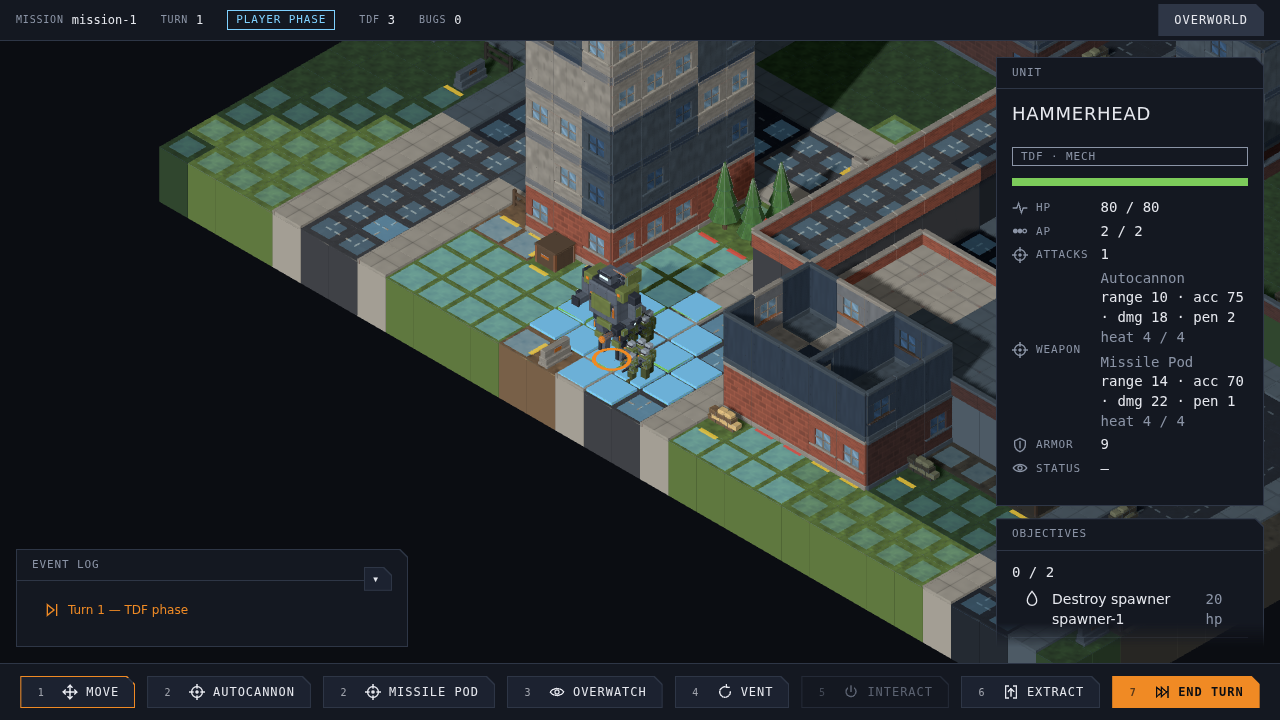
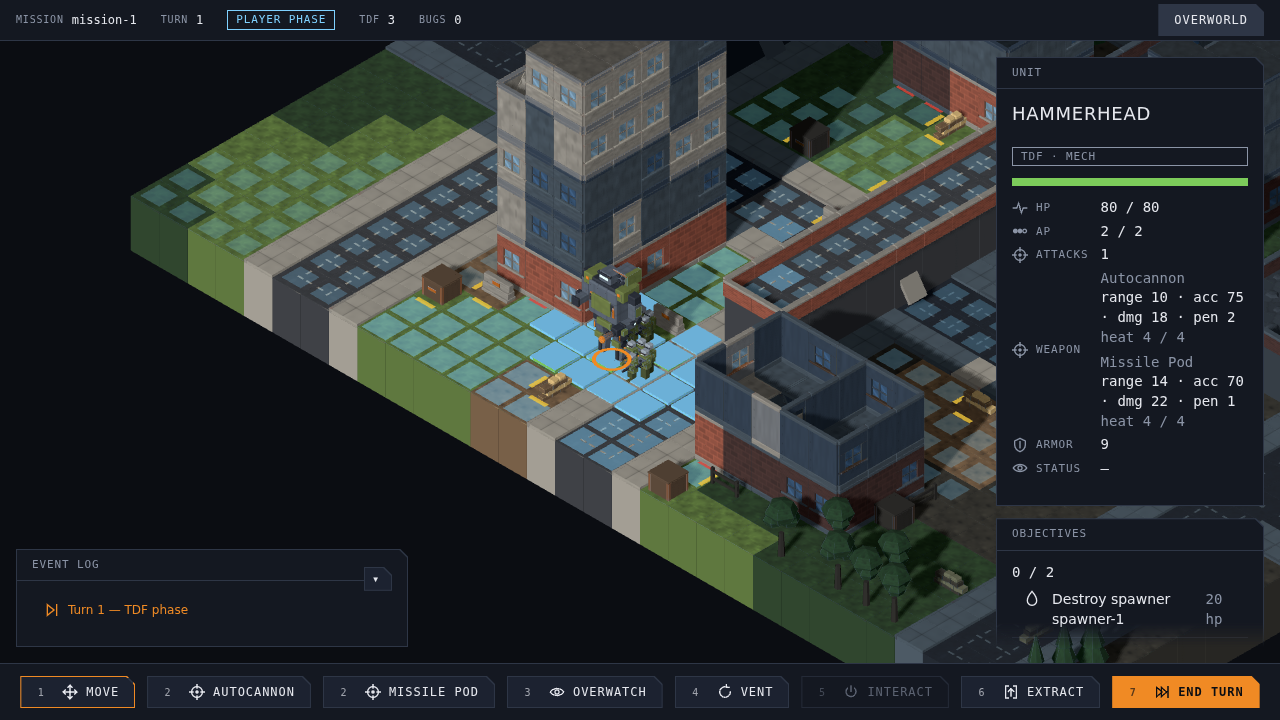
fix(graphics): stairs face their connector and the plank retires; brick flank measured, not a placement bug (#766) (#775)
* fix(graphics): stairs face their connector, and the plank retires (#766)

The stairs were never artless. A `stairs` surface already resolves to
`building.stairs` through the tile path like any other surface — but a
surface slab is unturned, so every staircase climbed along +Z whichever
way its connector went, and the `buildConnectors` plank was never retired,
so a tilted slab stayed drawn through the model. That is the "floating,
tilted slab" of #748; the model was there underneath, facing the wrong way.

`fitSurface` now turns a stairs tile toward its connector's upper end,
with the quarter turn derived from what `placementMatrix` does with turns:
0 south, 1 west, 2 north, 3 east. The model is pivoted at its base, so it
stands on the tile top rather than half a slab below it. The plank is
registered as a placeholder and retired when the models land; it also
leaves the connector vision map, or setVision would switch it back on.
Ramps and ladders have no art and keep their planks.

Tests: all four directions; pivot on the tile top; a connector-less stairs
tile stays unturned rather than vanishing; the plank retiring while the
ramp's survives; vision not resurrecting a retired plank. Sabotage-checked
both ways.

Claude-Session: https://claude.ai/code/session_015f1a8gF7xjnWbr92ru2yxX

* docs(design): the #766 renders — stairs facing their connector, plank gone

Three frames on this branch's final code. The unpeeled ?models=1 preview
[…]

diff --git a/src/graphics/service/map-model-resolver.ts b/src/graphics/service/map-model-resolver.ts
@@ -126,6 +126,44 @@ export function mapModelIds(
 }
 
 // ===========================================
+// Stairs
+// ===========================================
+
+/**
+ * Quarter turns that point a stairs tile's model up its connector (#766).
+ *
+ * A `stairs` surface already resolves to `building.stairs` like any other
+ * surface, but a surface slab is unturned, so every staircase climbed
+ * along +Z whichever way its connector actually went — the "tilted slab"
+ * of #748, with the placeholder plank still drawn through it. The model
+ * is authored with its steps rising along +Z from a base pivot, so it
+ * turns to face the connector's upper end.
+ *
+ * `placementMatrix` rotates by `-turns × π/2` about Y, so +Z maps to
+ * `(sin θ, cos θ)` in (x, z): turns 0 → south (+z), 1 → west (−x),
+ * 2 → north (−z), 3 → east (+x). A tile with no stairs connector of its
+ * own keeps 0, so a stray `stairs` surface still draws something.
+ */
+function stairsTurns(tile: Tile, map: TacticalMap): Rotation {
+  const up = map.connectors.find(
+    (c) =>
+      c.kind === "stairs" &&
+      c.from.x === tile.x &&
+      c.from.y === tile.y &&
+      c.from.z === tile.z,
+  );
+  if (up === undefined) {
+    return 0;
+  }
+  const dx = up.to.x - up.from.x;
+  const dz = up.to.z - up.from.z;
+  if (dz > 0) return 0;
+  if (dx < 0) return 1;
+  if (dz < 0) return 2;
+  return 3;
+}
+
+// ===========================================
 // Tiles
 // ===========================================
 
@@ -144,17 +182,21 @@ function resolveTiles(
 ): readonly ModelPlacement[] {
   const placements: ModelPlacement[] = [];
   for (const tile of map.tiles) {
-    const fitted = fitSurface(tile, index);
+    const fitted = fitSurface(tile, index, map);
     if (fitted === undefined) {
       continue;
     }
     const drop = tile.surface === SurfaceIds.WATER ? WATER_RECESS : 0;
+    // A slab is pivoted at its centre and sits half a thickness below the
+    // top; the stairs model is pivoted at its base and stands on it (#766).
+    const lift =
+      tile.surface === SurfaceIds.STAIRS ? 0 : GROUND_SLAB_THICKNESS / 2;
     placements.push({
       modelId: fitted.modelId,
       level: tile.y,
       position: {
         x: tile.x + 0.5,
-        y: tileTop(tile.y) - GROUND_SLAB_THICKNESS / 2 - drop,
+        y: tileTop(tile.y) - lift - drop,
         z: tile.z + 0.5,
       },
       turns: fitted.turns,
@@ -172,6 +214,7 @@ function resolveTiles(
 function fitSurface(
   tile: Tile,
   index: TileIndex,
+  map: TacticalMap,
 ): { modelId: ModelAssetId; turns: Rotation } | undefined {
   if (tile.surface === SurfaceIds.ROAD) {
     return fitJunction(tile, index, ROAD_VARIANTS.straight, ROAD_VARIANTS);
@@ -186,7 +229,13 @@ function fitSurface(
     });
   }
   const modelId = surfaceModel(tile.surface);
-  return modelId === undefined ? undefined : { modelId, turns: 0 };
+  if (modelId === undefined) {
+    return undefined;
+  }
+  return {
+    modelId,
+    turns: tile.surface === SurfaceIds.STAIRS ? stairsTurns(tile, map) : 0,
+  };
 }
 
 /**

diff --git a/src/graphics/view/tactical-map-view.ts b/src/graphics/view/tactical-map-view.ts
@@ -365,11 +365,10 @@ export class TacticalMapView implements Disposable, TilePicker {
    *          └─► placeholder boxes for that category hidden
    * ```
    *
-   * Hooks and connectors keep their placeholder geometry: they are
-   * diagnostic markers and ramps and ladders have no registered model.
-   * Safe to call once; a second call is a no-op. `ModelLoader` never
-   * rejects for a registered id, so a failed fetch shows that model's
-   * placeholder rather than losing the map.
+   * Hooks keep their placeholder geometry, and so do ramps and ladders,
+   * which have no registered art; a stairs plank retires once the stairs
+   * tile's model is up (#766). A model that fails to load leaves its placeholder rather than
+   * losing the map.
    */
   async loadModels(models: ModelLoader): Promise<void> {
     if (this.modelled) {
@@ -386,10 +385,12 @@ export class TacticalMapView implements Disposable, TilePicker {
     for (const [label, list] of categories) {
       await this.instanceCategory(label, list, models);
     }
-    // Building slabs, walls and props are replaced one for one. Ground
-    // pillars stay: they are the earth beneath the surface slab, not a
-    // stand-in for it.
-    for (const label of [TILES_SLAB, "walls", "props"]) {
+    // Building slabs, walls and props are replaced one for one, and the
+    // stairs plank retires because the stairs tile's own model now draws
+    // the staircase (#766). Ground pillars stay: they are the earth
+    // beneath the surface slab, not a stand-in for it. Ramps and ladders
+    // stay too, having no art.
+    for (const label of [TILES_SLAB, "walls", "props", "connectors"]) {
       this.retirePlaceholders(label);
     }
   }
@@ -478,6 +479,13 @@ export class TacticalMapView implements Disposable, TilePicker {
   private retirePlaceholders(label: string): void {
     for (const mesh of this.placeholders.get(label) ?? []) {
       mesh.visible = false;
+      // A retired stairs plank must also leave the vision map, or the
+      // next setVision would switch it back on (#766).
+      for (const tracked of this.connectorTiles.keys()) {
+        if (tracked === mesh) {
+          this.connectorTiles.delete(tracked);
+        }
+      }
     }
   }
 
@@ -781,6 +789,15 @@ export class TacticalMapView implements Disposable, TilePicker {
       this.connectorTiles.set(mesh, tracked);
       this.applyVisionToConnector(tracked);
       this.groupFor(connector.to.y).add(mesh);
+      if (connector.kind === "stairs") {
+        // A placeholder until the stairs tile's model is up (#766).
+        const kept = this.placeholders.get("connectors");
+        if (kept === undefined) {
+          this.placeholders.set("connectors", [mesh]);
+        } else {
+          kept.push(mesh);
+        }
+      }
     }
   }
 

diff --git a/src/graphics/view/tactical-map-view.test.ts b/src/graphics/view/tactical-map-view.test.ts
@@ -651,3 +651,48 @@ describe("overlapping hook markers", () => {
     expect(names).toContain("hooks:hook:extraction:0");
   });
 });
+
+// ===========================================
+// Stairs get their model (#766)
+// ===========================================
+
+describe("TacticalMapView stairs", () => {
+  it("replaces the stairs plank with the stairs model and keeps the ramp's", async () => {
+    const b = fixture();
+    b.tile({ x: 0, y: 0, z: 0 }, SurfaceIds.STAIRS);
+    b.tile({ x: 1, y: 1, z: 0 }, SurfaceIds.ROCK);
+    b.connector("stairs", { x: 0, y: 0, z: 0 }, { x: 1, y: 1, z: 0 });
+    const map = b.build();
+    const stairs = map.connectors.find((c) => c.kind === "stairs");
+    const ramp = map.connectors.find((c) => c.kind === "ramp");
+    if (!stairs || !ramp) throw new Error("fixture needs a stairs and a ramp");
+    const view = new TacticalMapView(map);
+    const plankOf = (id: string) => {
+      let hit: Mesh | undefined;
+      view.root.traverse((o) => {
+        if (o instanceof Mesh && o.name === id) hit = o;
+      });
+      return hit;
+    };
+    // Before the models: both connectors are placeholder planks.
+    expect(plankOf(stairs.id)?.visible).toBe(true);
+    expect(plankOf(ramp.id)?.visible).toBe(true);
+
+    await view.loadModels(new FakeModelLoader());
+
+    // The stairs plank retires: the stairs tile's own model draws the
+    // staircase now, through the tile path like any other surface...
+    expect(plankOf(stairs.id)?.visible).toBe(false);
+    expect(
+      allInstanced(view).some((m) => m.name.includes("building.stairs")),
+    ).toBe(true);
+    // ...and the ramp, which has no art, keeps its plank.
+    expect(plankOf(ramp.id)?.visible).toBe(true);
+
+    // Vision must not bring the retired plank back (#766): it used to
+    // toggle every connector's visibility on each call.
+    view.setVision({ visible: [], explored: [], spotted: [], lastSeen: {} });
+    expect(plankOf(stairs.id)?.visible).toBe(false);
+    view.dispose();
+  });
+});

diff --git a/src/graphics/service/map-model-resolver.test.ts b/src/graphics/service/map-model-resolver.test.ts
@@ -380,3 +380,47 @@ describe("everything placed on a tile measures from one plane", () => {
     }
   });
 });
+
+// ===========================================
+// Stairs face their connector (#766)
+// ===========================================
+
+describe("resolveMapModels stairs tiles", () => {
+  /** A stairs tile at (2, 0, 2) climbing to a raised tile one step `d` away. */
+  function climb(d: { x: number; z: number }): TacticalMap {
+    const b = new FixtureMapBuilder(5, 5, 2).fillGround();
+    b.tile({ x: 2, y: 0, z: 2 }, SurfaceIds.STAIRS);
+    b.tile({ x: 2 + d.x, y: 1, z: 2 + d.z }, SurfaceIds.ROCK);
+    b.connector(
+      "stairs",
+      { x: 2, y: 0, z: 2 },
+      { x: 2 + d.x, y: 1, z: 2 + d.z },
+    );
+    return b.build();
+  }
+  const stairsAt = (map: TacticalMap) =>
+    resolveMapModels(map).tiles.find((p) => p.tile.x === 2 && p.tile.z === 2);
+
+  it("turns the model up its connector: south 0, west 1, north 2, east 3", () => {
+    // `placementMatrix` rotates -turns·π/2 about Y, so +Z lands on
+    // south / west / north / east for turns 0 / 1 / 2 / 3.
+    expect(stairsAt(climb({ x: 0, z: 1 }))?.turns).toBe(0);
+    expect(stairsAt(climb({ x: -1, z: 0 }))?.turns).toBe(1);
+    expect(stairsAt(climb({ x: 0, z: -1 }))?.turns).toBe(2);
+    expect(stairsAt(climb({ x: 1, z: 0 }))?.turns).toBe(3);
+  });
+
+  it("stands the stairs on the tile top, pivot at its base, not half a slab down", () => {
+    const placed = stairsAt(climb({ x: 1, z: 0 }));
+    expect(placed?.modelId).toBe("building.stairs");
+    expect(placed?.position).toEqual({ x: 2.5, y: tileTop(0), z: 2.5 });
+  });
+
+  it("keeps a stairs tile with no connector unturned rather than dropping it", () => {
+    const b = new FixtureMapBuilder(5, 5, 2).fillGround();
+    b.tile({ x: 2, y: 0, z: 2 }, SurfaceIds.STAIRS);
+    const placed = stairsAt(b.build());
+    expect(placed?.modelId).toBe("building.stairs");
+    expect(placed?.turns).toBe(0);
+  });
+});
